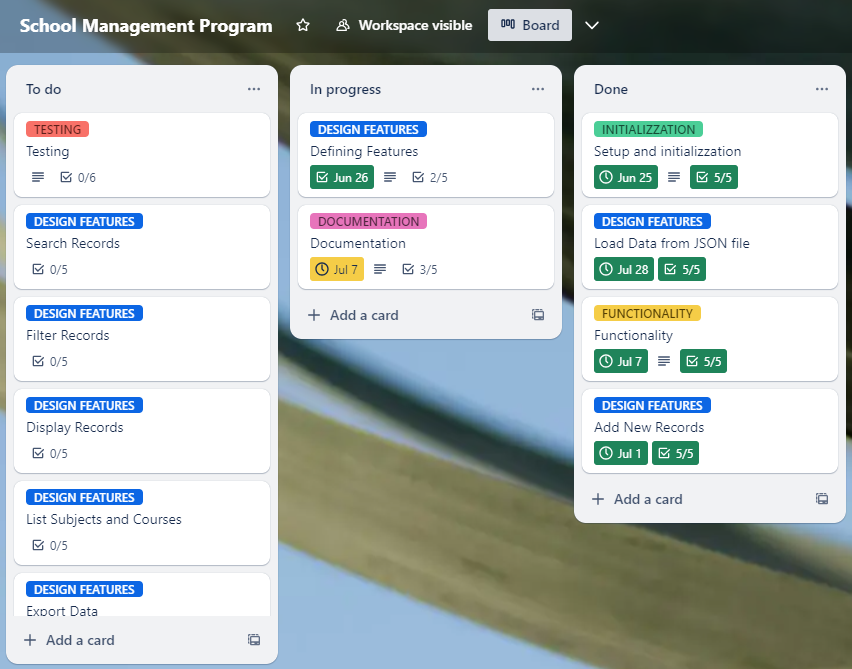
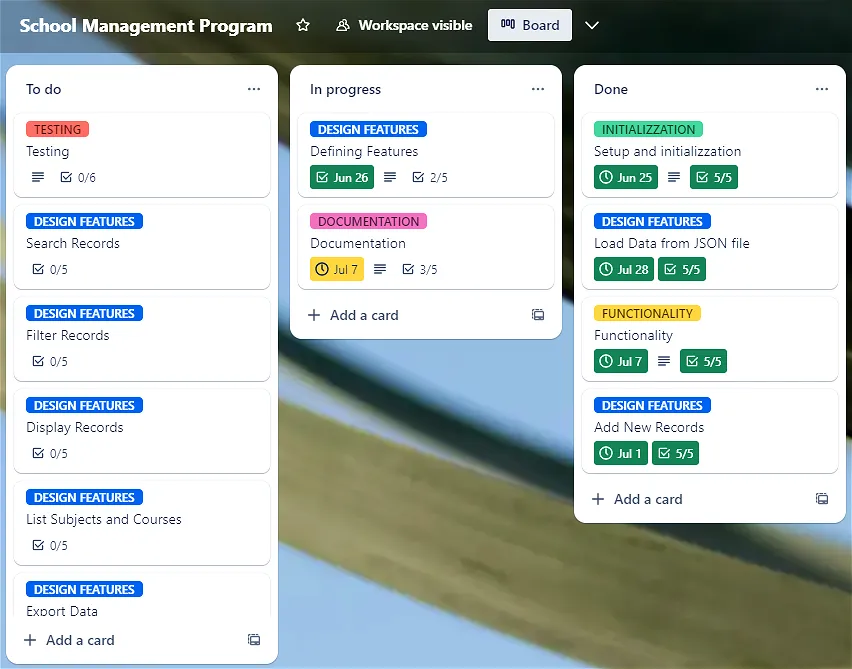
READM.md updated, screenshots quality updated

diff --git a/README.md b/README.md
@@ -3,10 +3,10 @@
 ## Installation requirements
 
 ### Prerequisites
-- Python 3.10 or higher installed 
-  (https://installpython3.com/)
-- Pyhton3 virtual environment (venv) installed 
-  (https://packaging.python.org/en/latest/guides/installing-using-pip-and-virtual-environments/)
+- Python 3.10 or higher installed   
+  [(https://installpython3.com/)](https://www.python.org/downloads/)
+- Pyhton3 virtual environment (venv) installed   
+  [(https://packaging.python.org/en/latest/guides/installing-using-pip-and-virtual-environments/)](https://packaging.python.org/en/latest/guides/installing-using-pip-and-virtual-environments/)
 
 ### Step by step installation
 1. Open the terminal
@@ -83,20 +83,20 @@ The app is organized into two main packages:
 
 ### Models
 The models package contains the following modules:
-- **Person**: This is the base class that defines common attributes for both students and teachers, and includes methods for updating and viewing records.
-- **Student**: This class inherits from Person and includes additional attributes specific to students, along with methods to update and view student-specific data.
-- **Teacher**: This class inherits from Person and includes additional attributes specific to teachers, along with methods to update and view teacher-specific data.
-- **School**: This class provides a set of methods to manage and interact with collections of Student and Teacher objects
+- **Person.py**: This is the base class that defines common attributes for both students and teachers, and includes methods for updating and viewing records.
+- **Student.py**: This class inherits from Person and includes additional attributes specific to students, along with methods to update and view student-specific data.
+- **Teacher.py**: This class inherits from Person and includes additional attributes specific to teachers, along with methods to update and view teacher-specific data.
+- **School.py**: This class provides a set of methods to manage and interact with collections of Student and Teacher objects
 
 ### Tools Management
 The tools_management package contains the following modules:
-- **File_operation**: Functions to read from and write to JSON files.
-- **Record_operation**: Functions to convert student and teacher objects to dictionaries, functions to create new instances of students and teachers based on JSON data and functions to display sub-menus for the user, allowing choices to update, delete records, search, and filter.  
+- **File_operation.py**: Functions to read from and write to JSON files.
+- **Record_operation.py**: Functions to convert student and teacher objects to dictionaries, functions to create new instances of students and teachers based on JSON data and functions to display sub-menus for the user, allowing choices to update, delete records, search, and filter.  
 These functions link to the **School** class, which contains all the methods for handling these operations.
 
 ## Development plan
-Using Trello I made a development, I've divided the project into different tasks that helps me to track the implementation plan.
-Each task in Trello has details like what needs to be done, who is responsible, and any notes or deadlines. It helps me stay organized, know what's being worked on, and track the progress step by step.
+Using Trello I made a development plan, I've divided the project into different tasks that helps me to track the implementation plan.
+Each task in Trello has details like what needs to be done and a checklist for each feature. It helps me stay organized, know what's being worked on, and track the progress step by step.
 
 ### Setup and initializzation
 Organize Directories and Files:
@@ -106,9 +106,10 @@ Organize Directories and Files:
 models/: This directory will contain Python classes (Person, Student, Teacher, School).
 tools_management/: This directory will contain modules for file operations, record operations, and user interaction (file_operation.py, record_operation.py, menu.py, etc.).
 data/: This directory can be used to store JSON files for storing data.
-- Initialize Initialize a Git repository:
+- Initialize a Git repository:
 - Create a .gitignore file to exclude unnecessary files (like virtual environment files)
-- Set Up Virtual Environment 
+- Set Up Virtual Environment
+
 ![trello initializzation task](./docs/initializzation.png)
 
 ### Defining the features
@@ -120,12 +121,12 @@ It's time now to focus on implementing the core features of the school managemen
 The Person class serves as the base class for both students and teachers, defining common attributes and behaviors.
 
 #### Class Variables:
-- __id: This is a class variable (static variable) prefixed with double underscores (__) to indicate it should not be directly accessed or modified from outside the class. It tracks the unique identifier for each instance of Person.  
+- __id: This is a class variable encapsulated with double underscores (__) to indicate it should not be directly accessed or modified from outside the class. It tracks the unique identifier for each instance of Person.  
 __id is private and can only be accessed or modified through defined getter (get_id()) and setter (set_id()) methods.
 
 #### Constructor Method
 - Initializes a new instance of Person with attributes name, last_name, and address.
-- Uses a class variable __id to assign a unique identifier to each new instance by incrementing it with every instantiation.
+- Uses a class variable __id to assign a unique identifier to each new instance by incrementing it by 1 every time a new instance is created.
 
 #### Class Methods - initialize_id(cls, list_id)
 - Purpose: Initializes the class variable __id based on data from a JSON file (list_id). It's not applied at the instance but it's applied at the class itself
@@ -143,7 +144,7 @@ __id is private and can only be accessed or modified through defined getter (get
 
 #### Static Method - not_empty_value(prompt)
 - Purpose: Ensures user inputs are not empty.
-- unctionality: Static method used within other methods to prompt users for non-empty inputs repeatedly until a valid input is received.
+- Functionality: Static method used within other methods to keep prompting users for non-empty inputs until a valid input is received.
 
 #### Instance Methods
 #### print_info(self)
@@ -164,13 +165,13 @@ The constructor method initializes a new instance of the Student class. It does 
 - Assigning a Unique ID: It assigns a unique ID to the student by calling Person.get_id().
 
 #### Methods - get_id(self)
-- Description: This getter method returns the unique ID of the student instance.
+- This getter method returns the unique ID of the student instance.
 
 #### Methods - print_info(self)
-- Description: This method returns a string containing both inherited and student-specific information, such as the course name.
+- This method returns a string containing both inherited and student-specific information, such as the course name.
 
 #### Methods - update_student(self)
-- Description: This method updates both inherited attributes (name, last name, address) and the course attribute based on user input.
+- This method updates both inherited attributes (name, last name, address) and the course attribute based on user input.
 
 ### 3. Teacher Class
 The Teacher class is a subclass of Person and includes additional attributes and methods specific to teachers.
@@ -182,26 +183,26 @@ The constructor method initializes a new instance of the Teacher class.
 - Assigning a Unique ID: It assigns a unique ID to the teacher by calling Person.get_id()
 
 #### Methods - get_id(self)
-- Description: This getter method returns the unique ID of the teacher instance.
+- This getter method returns the unique ID of the teacher instance.
 
 #### Methods - print_info(self)
-- Description: This method returns a string containing both inherited and teacher-specific information, such as the subject area.
+- This method returns a string containing both inherited and teacher-specific information, such as the subject area.
 
 #### Methods - update_teacher(self)
-- Description: This method updates both inherited attributes (name, last name, address) and the subject_area attribute based on user input.
+- This method updates both inherited attributes (name, last name, address) and the subject_area attribute based on user input.
 
 ![tracking trello](./docs/tracking1.png)
 
 ### Read from JSON file
 The function read_json() containded in the file_operation module is responsible for reading student and teacher records from a JSON file, creating instances of the Student and Teacher classes, and returning these instances along with their IDs.
 - Reading the JSON file and loads the content of the file into the json_data list.
-- Processing each record: a for loop iterates over each record in the json data list and collects the ID from eah record and append it to the list_id list.
+- Processing each record: a for loop iterates over each record in the json data list and collects the ID from each record and append it to the list_id[].
 - Checks if the profile of the record is "Student" or "Teacher"
 - Sets the ID for the Person class. This is necessary to retrieve the id for each record in the JSON list.
-- Creates an instance of the Student or Teacher (based on the Profile key) class using the values from the JSON record.
+- Creates an instance of the Student or Teacher class (based on the Profile key) using the values from the JSON record.
 - Append the newly created instance to the list where belong (student_list, teacher_list) depending of the profile type
 
-#### Understanding the ID System
+### Understanding the ID System
 **ID Initialization and Incrementation**:
 
 - When a new instance of Person (or its subclasses Student and Teacher) is created, the ID counter is incremented automatically to assign a unique ID to each instance.
@@ -233,7 +234,7 @@ The file_path is a constant but has an optional parameter if the user wants to p
 **Opening and Writing to File**:
 - It opens the specified file_path in write mode ("w").
 - It uses json.dump() to write the sorted_json_data to the file.
-- After successfully writing the JSON data to the file, the function prints a message which is an optional parameter to confirm the operation completed.
+- After successfully writing the JSON data to the file, the function prints a message, which is an optional parameter set empty by default, to confirm the operation completed.
 
 ![functionality checklist](./docs/trello-functionality_checklist.png)
 ![trello tracking](./docs/tracking2.png)
@@ -244,6 +245,8 @@ This module consist of several functions and utility methods designed to manage 
 #### student_new_record() and teacher_new_record():
 - These functions prompt the user to enter information like name, last name, address, and either course (for students) or teaching subject (for teachers).
 - They create instances of Student or Teacher classes respectively and return the created object (Student or Teacher)
+
+![feature add new records](./docs/trello-add_new_records.png)
 
 #### student_object_to_dict(students) and teacher_object_to_dict(teachers):
 - These functions convert lists of Student or Teacher objects into lists of dictionaries in order to be written to a JSON file
@@ -262,7 +265,6 @@ This module consist of several functions and utility methods designed to manage 
 - This function displays a sub-menu allowing users to update or delete a student's or teacher's record.
 - Based on the entity_profile and id provided, it interacts with the school object to perform update or delete operations (update_delete_records function).
 
-![feature add new records](./docs/trello-add_new_records.png)
 ![trello tracking plan](./docs/tracking3.png)
 
 ### 3. School Class
@@ -276,11 +278,15 @@ This School class manages collections of Student and Teacher objects, providing 
 - Prints each student's information using Student.print_info() method.
 - Returns the number of students or a message if no students are present
 
+![Trello display records](./docs/trello_display_records.png)
+
 #### find_student_by_id(student_id)
 - Searches for a student by its ID
 - Iterates through self.students list and compares ID using Student.get_id()
 - Prints student information if found, otherwise prints a message.
 - Returns True if student is found, False otherwise.
+
+![Search records](./docs/trello-search_record.png)
 
 #### find_student_by_name(student_name)
 - Finds student by its name.
@@ -289,7 +295,7 @@ This School class manages collections of Student and Teacher objects, providing 
 - It handles scenarios where multiple records might match the search criteria (id could be a single integer or a list of integers) in the case of namesakes. In such cases, it checks the type of id: if it is an integer, it is passed directly to the update_delete function. If it is a list, the function prompts the user to confirm the id due to potential namesakes."
 - Returns False if no students are found with the given name.
 
-![find student by name](./docs/flowchart_find_student_by_name.png)
+![flowchart student by name](./docs/flowchart_find_student_by_name.png)
 
 #### student_update(id)
 - Updates a student's information based on the given ID
@@ -304,8 +310,6 @@ This School class manages collections of Student and Teacher objects, providing 
 
 #### The same functions are built for the Teacher objects, working in the same way but operating on the Teacher instances list instead
 
-![Trello display records](./docs/trello_display_records.png)
-
 #### filter_students_by_course(course)
 - Filters and retrieves students enrolled in a specified course.
 - Iterate through the students list and if the student's course attribute is the same to the given course value append it to the matching_student list
@@ -314,6 +318,8 @@ This School class manages collections of Student and Teacher objects, providing 
 #### filter_teachers_by_subject(subject)
 - Filters and retrieves teachers who teach a specified subject.
 - Similar to filter_students_by_course, but operates on self.teachers and search for the subject attribute instead
+
+![Filter records](./docs/trello-filter_records.png)
 
 #### print_list_all_courses()
 - Prints a list of all unique courses taken by students.
@@ -325,8 +331,6 @@ This School class manages collections of Student and Teacher objects, providing 
 - Uses a set variable to store unique subjects.
 - Prints each subject and returns True if subjects are found; otherwise, returns False.
 
-![Filter records](./docs/trello-filter_records.png)
-![Search records](./docs/trello-search_record.png)
 ![list subject_course](./docs/trello-list_course_subject.png)
 ![trello tracking plan](./docs/tracking5.png)
 
